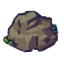
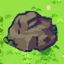
ajustando imagens

diff --git a/src/essentials/Cell.java b/src/essentials/Cell.java
@@ -93,7 +93,24 @@ public class Cell extends JButton {
 		} else {
 		    System.out.println("Erro ao carregar a imagem.");
 		}
-		this.staticElem = elem;
+		
+		Image scaledImage = image.getImage().getScaledInstance(this.getWidth(), this.getHeight(), Image.SCALE_SMOOTH);
+        this.setIcon(new ImageIcon(scaledImage));
+		
+        this.setBorderPainted(false);
+        this.setFocusPainted(false);
+        this.setContentAreaFilled(false);
+        this.staticElem = elem;
+        
+        this.addComponentListener(new java.awt.event.ComponentAdapter() {
+            @Override
+            public void componentResized(java.awt.event.ComponentEvent evt) {
+                
+                Image resizedImage = image.getImage().getScaledInstance(getWidth(), getHeight(), Image.SCALE_SMOOTH);
+                setIcon(new ImageIcon(resizedImage));
+            }
+        });
+        
 	}
 	
 	
